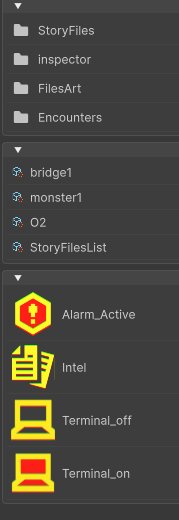
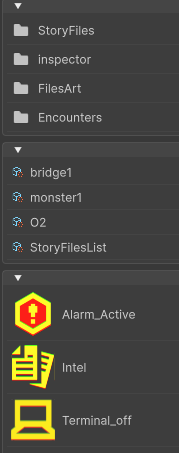
Keep README screenshots readable on narrow pages

diff --git a/README.md b/README.md
@@ -27,12 +27,12 @@ JumpDeck собирает ассеты, скрипты, настройки, об
 Создай деку через шестерёнку, затем перетащи в неё объекты, папки и настройки.
 В одном окне можно держать несколько дек для разных задач.
 
-<table>
-  <tr>
-    <td valign="top"><a href=".github/screenshots/decks.png"><img src=".github/screenshots/decks.png" alt="Деки с пинами объектов, настроек и папок" width="337"></a></td>
-    <td valign="top"><a href=".github/screenshots/create-deck.png"><img src=".github/screenshots/create-deck.png" alt="Меню создания и импорта дек" width="460"></a><br><br>Пины могут вести к ассетам, объектам сцены или сохранённому поиску. Нажми на картинку, чтобы рассмотреть интерфейс крупнее.</td>
-  </tr>
-</table>
+<p align="center"><a href=".github/screenshots/create-deck.png"><img src=".github/screenshots/create-deck.png" alt="Меню создания и импорта дек" width="655"></a><br><sub>Меню создания и импорта дек</sub></p>
+
+Пины могут вести к ассетам, объектам сцены или сохранённому поиску.
+Нажми на скриншот, чтобы рассмотреть интерфейс крупнее.
+
+<p align="center"><a href=".github/screenshots/decks.png"><img src=".github/screenshots/decks.png" alt="Деки с пинами объектов, настроек и папок" width="337"></a><br><sub>Несколько дек в одной панели</sub></p>
 
 ### 2. Выбери действие по клику
 
@@ -46,12 +46,9 @@ JumpDeck собирает ассеты, скрипты, настройки, об
 У каждой деки свой размер иконок и набор кнопок. Если нужно больше места, сверни заголовки:
 пины останутся на виду.
 
-<table>
-  <tr>
-    <td align="center" valign="top"><a href=".github/screenshots/icon-size.png"><img src=".github/screenshots/icon-size.png" alt="Настройки размера иконок и кнопок деки" width="580"></a><br><strong>Настройки деки</strong></td>
-    <td align="center" valign="top"><a href=".github/screenshots/compact-headers.png"><img src=".github/screenshots/compact-headers.png" alt="Деки со свёрнутыми заголовками" width="160"></a><br><strong>Компактный вид</strong></td>
-  </tr>
-</table>
+<p align="center"><a href=".github/screenshots/icon-size.png"><img src=".github/screenshots/icon-size.png" alt="Настройки размера иконок и кнопок деки" width="646"></a><br><sub>Настройки отдельной деки</sub></p>
+
+<p align="center"><a href=".github/screenshots/compact-headers.png"><img src=".github/screenshots/compact-headers.png" alt="Деки со свёрнутыми заголовками" width="179"></a><br><sub>Свёрнутые заголовки</sub></p>
 
 ## Установка
 

diff --git a/README.en.md b/README.en.md
@@ -27,12 +27,12 @@ lighting, or other work, then dock the panel where you need it.
 Create a deck from the gear menu, then drag in objects, folders, and settings.
 Keep several decks in the same window for different tasks.
 
-<table>
-  <tr>
-    <td valign="top"><a href=".github/screenshots/decks.png"><img src=".github/screenshots/decks.png" alt="Decks with object, settings, and folder pins" width="337"></a></td>
-    <td valign="top"><a href=".github/screenshots/create-deck.png"><img src=".github/screenshots/create-deck.png" alt="Create and import deck menu" width="460"></a><br><br>Pins can lead to assets, scene objects, or saved searches. Click either image for a closer look.</td>
-  </tr>
-</table>
+<p align="center"><a href=".github/screenshots/create-deck.png"><img src=".github/screenshots/create-deck.png" alt="Create and import deck menu" width="655"></a><br><sub>Create and import decks</sub></p>
+
+Pins can lead to assets, scene objects, or saved searches.
+Click a screenshot for a closer look.
+
+<p align="center"><a href=".github/screenshots/decks.png"><img src=".github/screenshots/decks.png" alt="Decks with object, settings, and folder pins" width="337"></a><br><sub>Several decks in one panel</sub></p>
 
 ### 2. Choose what a click does
 
@@ -46,12 +46,9 @@ Choose the action for each pin.
 Each deck has its own icon size and buttons. Minimize headers when you need more room;
 the pins stay visible.
 
-<table>
-  <tr>
-    <td align="center" valign="top"><a href=".github/screenshots/icon-size.png"><img src=".github/screenshots/icon-size.png" alt="Deck icon and button size settings" width="580"></a><br><strong>Deck settings</strong></td>
-    <td align="center" valign="top"><a href=".github/screenshots/compact-headers.png"><img src=".github/screenshots/compact-headers.png" alt="Decks with minimized headers" width="160"></a><br><strong>Compact view</strong></td>
-  </tr>
-</table>
+<p align="center"><a href=".github/screenshots/icon-size.png"><img src=".github/screenshots/icon-size.png" alt="Deck icon and button size settings" width="646"></a><br><sub>Individual deck settings</sub></p>
+
+<p align="center"><a href=".github/screenshots/compact-headers.png"><img src=".github/screenshots/compact-headers.png" alt="Decks with minimized headers" width="179"></a><br><sub>Minimized headers</sub></p>
 
 ## Install
 
